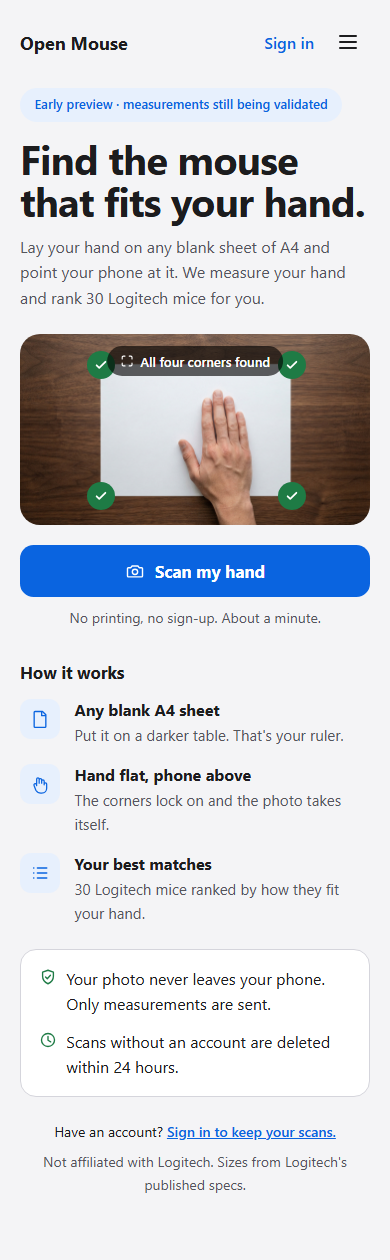
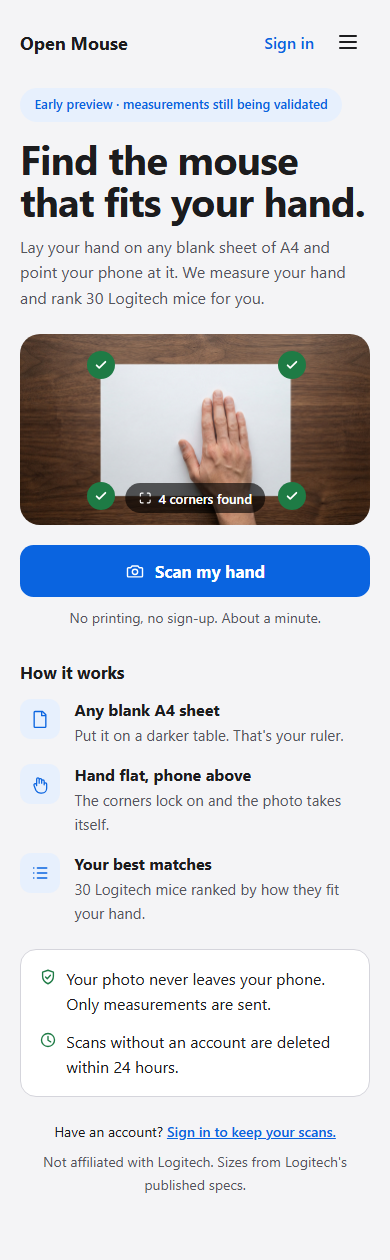
Easy scan: level retake button with See my matches; hero badge clear of the corner checks
Claude-Session: https://claude.ai/code/session_01NbhwgDQM7NVJpyrTU5XTCU

Changed region(s): [[0.2769, 0.2476, 0.7385, 0.3095], [0.3077, 0.3714, 0.6769, 0.4333]]

diff --git a/src/client/camera/easy-scan.css b/src/client/camera/easy-scan.css
@@ -261,9 +261,11 @@
   color: var(--scan-accent, #0a64e0);
 }
 
+/* flex-start, not center: the submit panel is taller than its button (it
+   holds status text below), so centring pushed the retake button down. */
 .easySheetActions {
   display: flex;
-  align-items: center;
+  align-items: flex-start;
   gap: 0.75rem;
 }
 /* Both this and .easySeeMatches .primaryButton are pinned to the same 54px

diff --git a/src/app/home.css b/src/app/home.css
@@ -104,9 +104,11 @@
   top: 84.9%;
   left: 77.6%;
 }
+/* Bottom-centre, between the two lower corner checks — at the top it sat
+   on the top-left check once the hero kept the photo's own aspect. */
 .home-hero-badge {
   position: absolute;
-  top: 0.75rem;
+  bottom: 0.75rem;
   left: 50%;
   transform: translateX(-50%);
   display: inline-flex;

diff --git a/src/app/page.tsx b/src/app/page.tsx
@@ -57,7 +57,7 @@ export default function HomePage() {
           <CheckIcon />
         </span>
         <span className="home-hero-badge" aria-hidden="true">
-          <ScanBadgeIcon /> All four corners found
+          <ScanBadgeIcon /> 4 corners found
         </span>
       </div>
 
